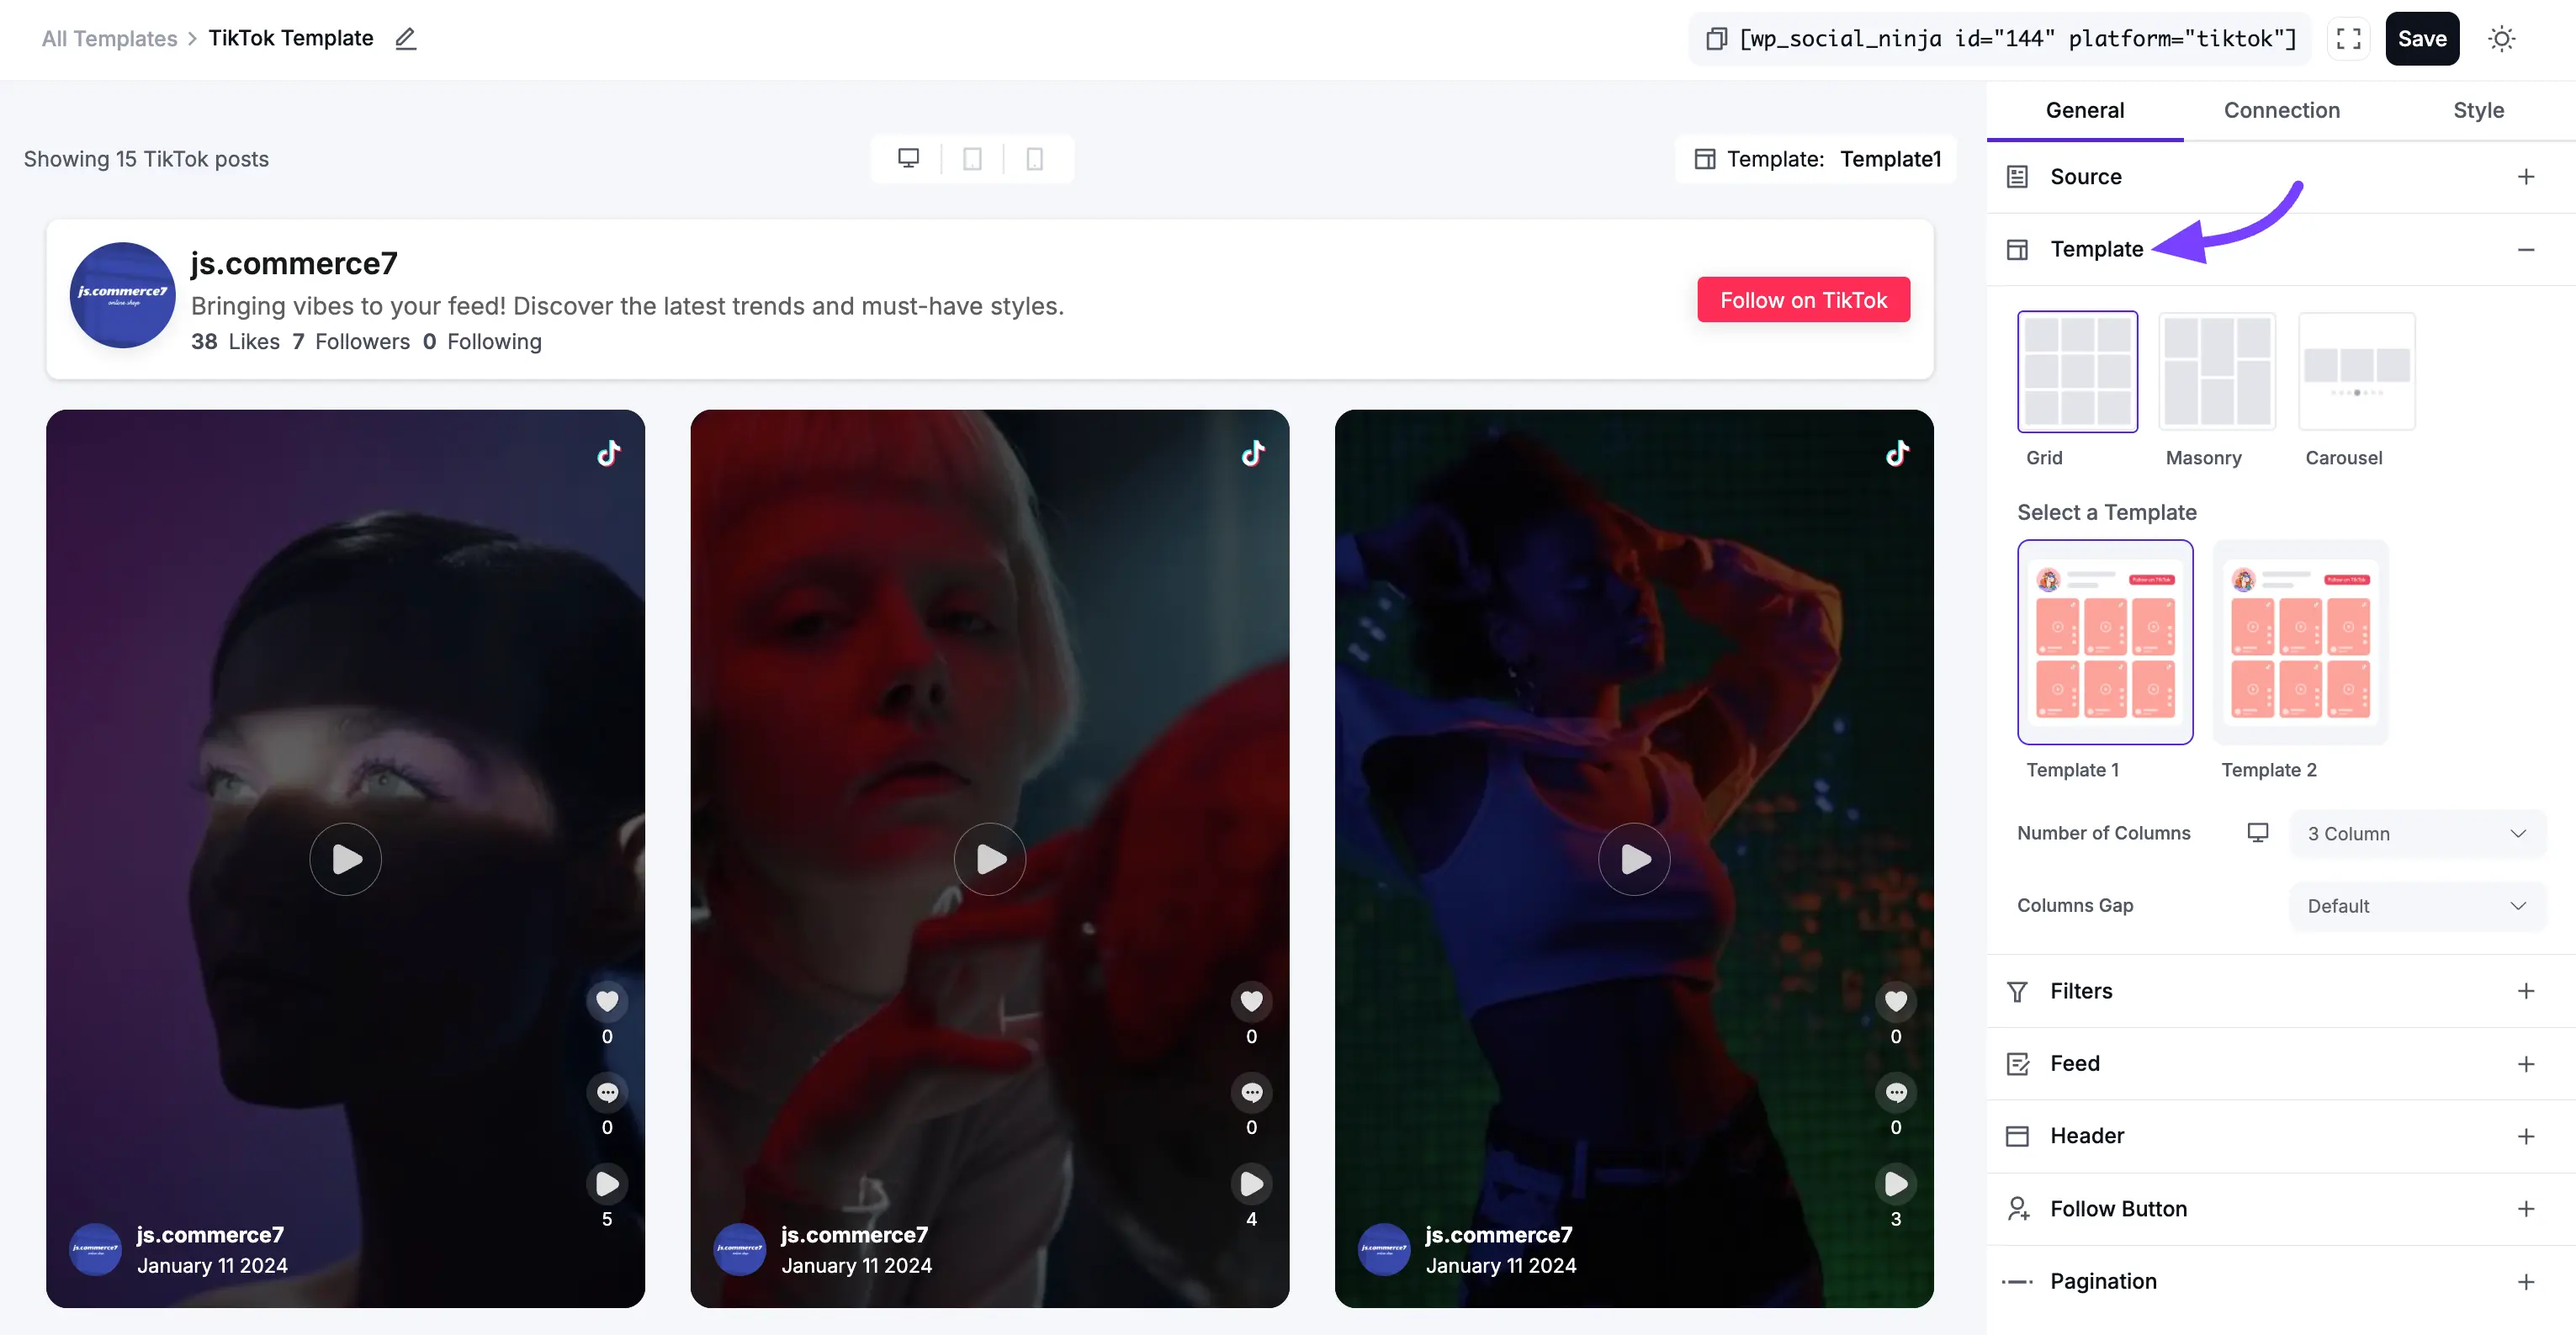
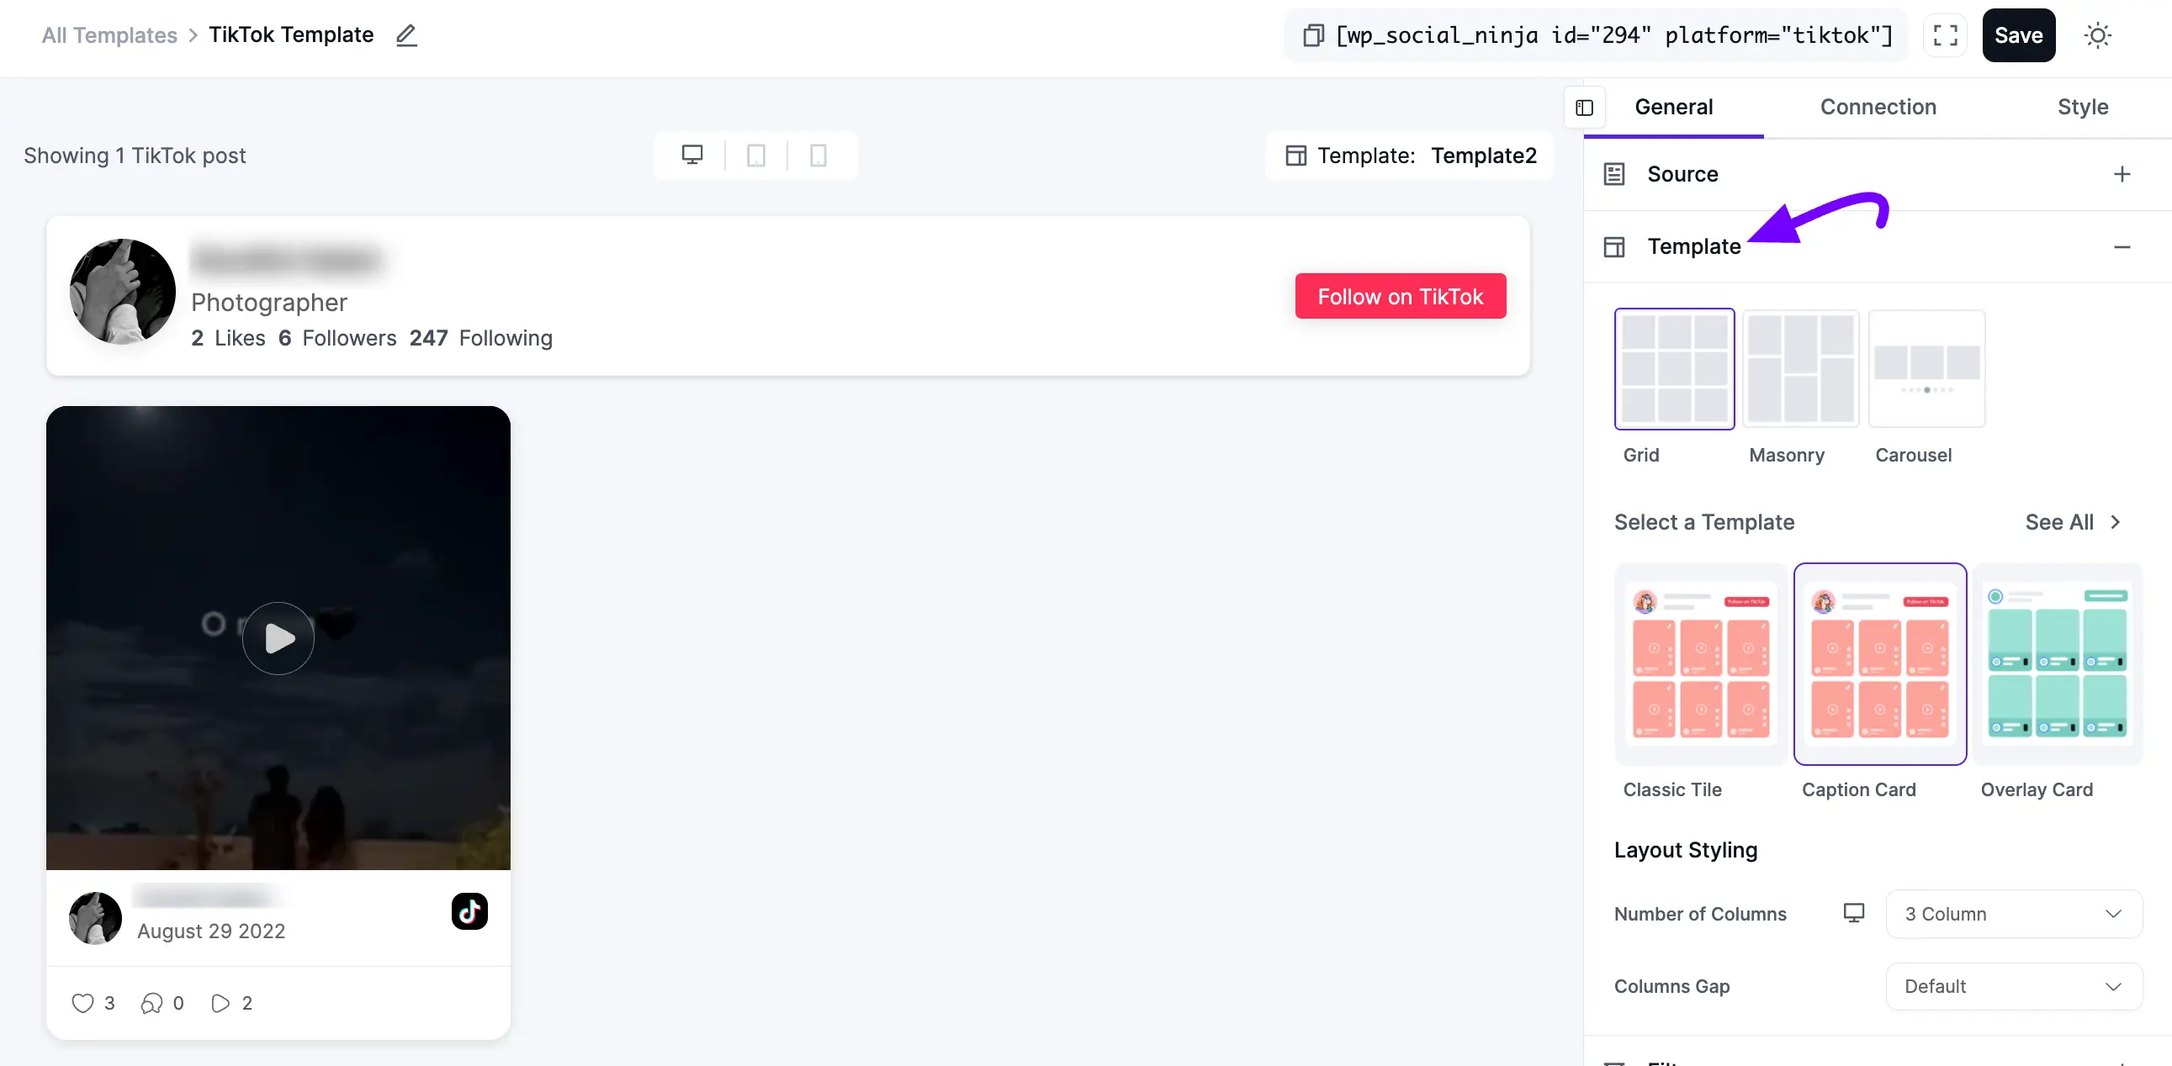
update TikTok Feed Template

diff --git a/guide/social-feeds/tiktok-feed-template.md b/guide/social-feeds/tiktok-feed-template.md
@@ -56,31 +56,17 @@ This section controls the visual structure and arrangement of your videos.
     * *Example: You might choose 4 columns for Desktop, 2 for Tablet, and 1 for Mobile. This ensures your feed is always easy to see and interact with, no matter the screen size.*
 * **Columns Gap:** This controls the amount of empty space (in pixels) between each video in your feed. Increase this number to give your videos more "breathing room," or set it to `0` to have them all touch.
 
-<!-- TODO: Capture this screenshot and save it at /guide/public/images/social-feeds/tiktok-feed-template/template-picker.webp
-     then delete these comment markers to publish the image.
-![Choosing a TikTok feed template](/guide/public/images/social-feeds/tiktok-feed-template/template-picker.webp)
--->
+![Template Template](/guide/public/images/social-feeds/tiktok-feed-template/tiktok-template-3.webp)
 
 #### What the Pro Layouts Look Like
 
-**Overlay Card** keeps the grid purely visual, bringing the caption and view counts over the thumbnail only on hover.
+**Overlay Card**: Keeps your grid clean and visual. The text and view count only appear when a visitor hovers their mouse over the video.
 
-<!-- TODO: Capture this screenshot and save it at /guide/public/images/social-feeds/tiktok-feed-template/overlay-card.webp
-     Capture a live TikTok feed on the Overlay Card template with the cursor resting on one tile, so the caption overlay is visible.
-     Then delete these comment markers to publish the image.
-![A TikTok feed using the Overlay Card template](/guide/public/images/social-feeds/tiktok-feed-template/overlay-card.webp)
--->
+![Template Template overlaycard](/guide/public/images/social-feeds/tiktok-feed-template/overlaycard-template-3.webp)
 
-**Spotlight Hero** gives your newest video a large hero tile with the rest of the feed arranged around it.
+**Spotlight Hero**: Makes your newest video much larger to grab attention, with the rest of your videos arranged neatly around it.
 
-<!-- TODO: Capture this screenshot and save it at /guide/public/images/social-feeds/tiktok-feed-template/spotlight-hero.webp
-     Capture the Spotlight Hero template showing the oversized lead tile alongside the smaller surrounding tiles.
-     Then delete these comment markers to publish the image.
-![A TikTok feed using the Spotlight Hero template](/guide/public/images/social-feeds/tiktok-feed-template/spotlight-hero.webp)
--->
-
-
-![Template Template](/guide/public/images/social-feeds/tiktok-feed-template/tiktok-template-3.webp)
+![Template Template](/guide/public/images/social-feeds/tiktok-feed-template/spotlight-hero-template-3.webp)
 
 ### 3. Filters
 
@@ -150,11 +136,6 @@ This section controls the large banner at the top of your entire feed, which dis
     * **Display Following Count** (How many people you are following)
     * **Display Likes Count:** This is a key TikTok metric. It shows the TOTAL number of likes your entire profile has ever received.
 
-<!-- TODO: Capture this screenshot and save it at /guide/public/images/social-feeds/tiktok-feed-template/minimal-header.webp
-     Capture a TikTok feed with Header Layout set to Minimal, showing the compact profile-photo-and-name row and the profile photo border styling.
-     Then delete these comment markers to publish the image.
-![A TikTok feed using the Minimal header layout](/guide/public/images/social-feeds/tiktok-feed-template/minimal-header.webp)
--->
 
 ![Template Template](/guide/public/images/social-feeds/tiktok-feed-template/tiktok-template-6.webp)
 
